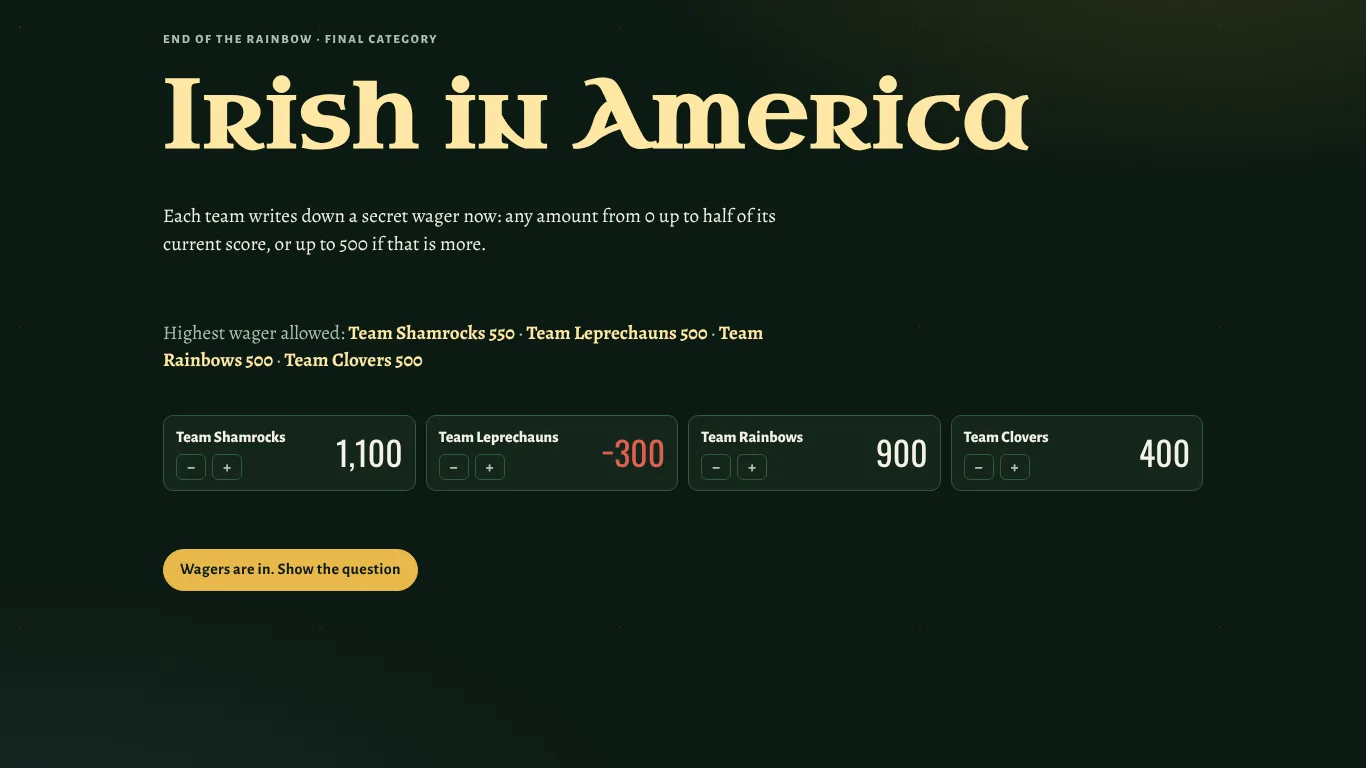
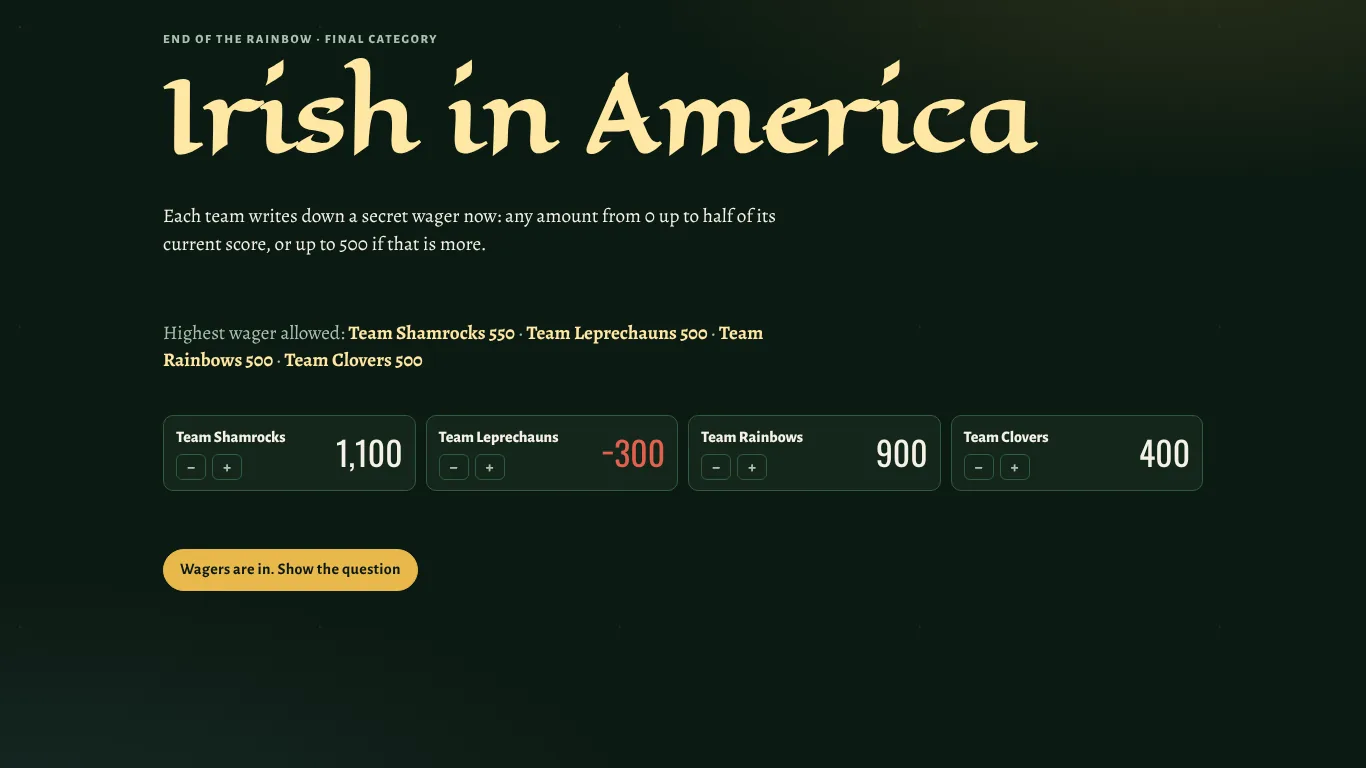
Pot o' Gold: Eagle Lake instead of Uncial Antiqua (its t looked like c: "Viccoria")
Screenshots and preview images redone; narrator lines unchanged.

Claude-Session: https://claude.ai/code/session_01CzHCKpeVAjDiPkzXjuz7VX

Changed region(s): [[0.123, 0.0625, 0.7687, 0.2188]]

diff --git a/games/stpatricks/game.html b/games/stpatricks/game.html
@@ -2,7 +2,7 @@
 <meta name="claude:viewport-fit-sides" content="cover">
 <link rel="preconnect" href="https://fonts.googleapis.com">
 <link rel="preconnect" href="https://fonts.gstatic.com" crossorigin>
-<link rel="stylesheet" href="https://fonts.googleapis.com/css2?family=Alegreya:ital,wght@0,400;0,500;0,700;1,400&family=Alegreya+Sans:wght@400;500;700;800&family=Oswald:wght@400;500;600&family=Uncial+Antiqua&display=swap">
+<link rel="stylesheet" href="https://fonts.googleapis.com/css2?family=Alegreya:ital,wght@0,400;0,500;0,700;1,400&family=Alegreya+Sans:wght@400;500;700;800&family=Oswald:wght@400;500;600&family=Eagle+Lake&display=swap">
 <style>
 /* Layout: one cosy game table in the pub corner — scoreboard strip on top, 5×5 board of "cards" below, questions open as a full-screen overlay for the projector. Single dark theme by design (a green St. Patrick's night). */
 :root{
@@ -19,7 +19,7 @@
   --good:#5fbf73;
   --bad:#e2604f;
   --witch:#7fb8e8;
-  --f-display:"Uncial Antiqua","Georgia","Times New Roman",serif;
+  --f-display:"Eagle Lake","Georgia","Times New Roman",serif;
   --f-text:"Alegreya",Georgia,"Times New Roman",serif;
   --f-ui:"Alegreya Sans",system-ui,-apple-system,"Segoe UI",sans-serif;
   --f-num:"Oswald","Arial Narrow","Helvetica Neue",sans-serif;

diff --git a/tools/make_og.py b/tools/make_og.py
@@ -13,7 +13,7 @@ OUT = f"{S}/build/seo"
 F = f"{S}/fontpkgs"
 font = lambda slug, w, st: os.path.abspath(glob.glob(f"{F}/fontsource-{slug}-[0-9]*/package/files/{slug}-latin-{w}-{st}.woff2")[0])
 FACES = "".join(f"@font-face{{font-family:'{fam}';font-style:{st};font-weight:{w};src:url(file://{font(slug, w, st)})}}"
-                for fam, slug, w, st in [("Mountains of Christmas", "mountains-of-christmas", 700, "normal"), ("Pirata One", "pirata-one", 400, "normal"), ("Yeseva One", "yeseva-one", 400, "normal"), ("Uncial Antiqua", "uncial-antiqua", 400, "normal"),
+                for fam, slug, w, st in [("Mountains of Christmas", "mountains-of-christmas", 700, "normal"), ("Pirata One", "pirata-one", 400, "normal"), ("Yeseva One", "yeseva-one", 400, "normal"), ("Eagle Lake", "eagle-lake", 400, "normal"),
                                          ("Alegreya", "alegreya", 500, "italic"), ("Alegreya", "alegreya", 800, "normal"), ("Alegreya", "alegreya", 800, "italic"),
                                          ("Alegreya Sans", "alegreya-sans", 500, "normal"), ("Alegreya Sans", "alegreya-sans", 800, "normal")])
 SNOW = "".join(f'<i style="left:{(i * 137) % 1200}px;top:{(i * 89) % 630}px;width:{2 + i % 4}px;height:{2 + i % 4}px;opacity:{0.15 + (i % 5) / 12:.2f}"></i>'
@@ -59,7 +59,7 @@ h1{{font-family:'{fam}';font-weight:{w};font-size:{136 if w == 700 else 150}px;l
     for slug, (eyebrow, title, sub) in page_ogs:
         page = f"""<!doctype html><html><head><meta charset="utf-8"><style>{css}
 .t{{position:absolute;left:84px;top:84px;width:740px}}
-h1{{font-family:'{fam}';font-weight:{w};font-size:{int((104 if w == 700 else 112) * (0.74 if fam == 'Uncial Antiqua' else 1))}px;line-height:.93;margin:22px 0 0;color:{th['ember']};text-shadow:0 0 40px rgba({rgb['glow']},.45)}}
+h1{{font-family:'{fam}';font-weight:{w};font-size:{int((104 if w == 700 else 112) * (0.7 if fam == 'Eagle Lake' else 1))}px;line-height:.93;margin:22px 0 0;color:{th['ember']};text-shadow:0 0 40px rgba({rgb['glow']},.45)}}
 .sub{{margin-top:26px;font-size:30px;font-weight:500}}
 .art{{right:80px;top:150px;width:290px}}
 </style></head><body><div class="snow">{SNOW}</div><div class="frame"></div>

diff --git a/tools/fontify.py b/tools/fontify.py
@@ -4,7 +4,7 @@ S = os.path.abspath(".")
 src, out = sys.argv[1], sys.argv[2]
 h = open(src, encoding="utf-8").read()
 F = f"{S}/fontpkgs"
-faces = [("Pirata One","pirata-one",[(400,"normal")]),("Mountains of Christmas","mountains-of-christmas",[(700,"normal")]),("Yeseva One","yeseva-one",[(400,"normal")]),("Uncial Antiqua","uncial-antiqua",[(400,"normal")]),("Alegreya","alegreya",[(400,"normal"),(500,"normal"),(700,"normal"),(400,"italic"),(500,"italic"),(700,"italic")]),
+faces = [("Pirata One","pirata-one",[(400,"normal")]),("Mountains of Christmas","mountains-of-christmas",[(700,"normal")]),("Yeseva One","yeseva-one",[(400,"normal")]),("Eagle Lake","eagle-lake",[(400,"normal")]),("Alegreya","alegreya",[(400,"normal"),(500,"normal"),(700,"normal"),(400,"italic"),(500,"italic"),(700,"italic")]),
 ("Alegreya Sans","alegreya-sans",[(400,"normal"),(500,"normal"),(700,"normal"),(800,"normal")]),("Oswald","oswald",[(400,"normal"),(500,"normal"),(600,"normal")])]
 css = "".join(f"@font-face{{font-family:'{fam}';font-style:{st};font-weight:{w};src:url(file://{glob.glob(f'{F}/fontsource-{slug}-[0-9]*/package/files/{slug}-latin-{w}-{st}.woff2')[0]})}}" for fam,slug,ss in faces for w,st in ss)
 s = h.index('<link rel="preconnect" href="https://fonts.googleapis.com">'); e = h.index('display=swap">', s) + len('display=swap">')

diff --git a/tools/games.py b/tools/games.py
@@ -107,8 +107,8 @@ STPATRICKS = dict(
     theme=dict(night="#0c1a12", dusk="#13261b", cell="#1a3324", line="#2f5a3e", bone="#f4f1e4", ash="#a9c2ae",
                candle="#e8b84a", ember="#ffe7a3", good="#5fbf73", witch="#7fb8e8", bad="#e2604f"),
     rgb=dict(night="12,26,18", dusk="19,38,27", glow="232,184,74", glow2="95,191,115"), tag2="var(--witch)",
-    display=("Uncial Antiqua", 400, "uncial-antiqua", '"Uncial Antiqua",Georgia,"Times New Roman",serif'),
-    gfont="Uncial+Antiqua",
+    display=("Eagle Lake", 400, "eagle-lake", '"Eagle Lake",Georgia,"Times New Roman",serif'),
+    gfont="Eagle+Lake",
     title="Victoria’s Pot o’ Gold · St. Patrick’s Day Office Quiz Game",
     desc="Free St. Patrick’s Day trivia game for office parties and team events: a game-show board, a leprechaun’s trick, a rainbow and a pot-of-gold wager.",
     og_desc="A free St. Patrick’s Day quiz for the whole office: Irish trivia, a leprechaun’s trick, a rainbow and a pot-of-gold wager, with a narrator.",

diff --git a/games/stpatricks/theme.py b/games/stpatricks/theme.py
@@ -6,7 +6,7 @@ MOBILE_CSS is the phone layout from tools/site_common.py."""
 
 VALUES = {
     'page_title': '<title>Victoria’s Pot o’ Gold</title>',
-    'font_link': '&family=Uncial+Antiqua&display=swap',
+    'font_link': '&family=Eagle+Lake&display=swap',
     'css_comment_theme': "Single dark theme by design (a green St. Patrick's night).",
     'css_comment_table': 'one cosy game table in the pub corner',
     'color_night': '--night:#0c1a12',
@@ -21,7 +21,7 @@ VALUES = {
     'color_good': '--good:#5fbf73',
     'color_bad': '--bad:#e2604f',
     'color_witch': '--witch:#7fb8e8',
-    'display_font': '--f-display:"Uncial Antiqua","Georgia","Times New Roman",serif;',
+    'display_font': '--f-display:"Eagle Lake","Georgia","Times New Roman",serif;',
     'atmosphere_css': '''
 /* ---------- Gold dust: two slow layers of golden and green specks drifting up behind the game ---------- */
 body::before,body::after{content:"";position:fixed;inset:-20vh 0 0;pointer-events:none;z-index:0;

diff --git a/HANDOFF.md b/HANDOFF.md
@@ -108,7 +108,7 @@ Decisions she made: name **Victoria's Sweetheart Showdown** (spelled "Victoria" 
 Decisions she made: name **Victoria's Pot o' Gold**; surprise 1 **Leprechaun's Trick** (`"cat"`: the leprechaun snatches the question, the team gives it away); surprise 2 **Over the Rainbow** (`"witch"`: the rainbow appears twice, price then team); final **End of the Rainbow**; winner line "Team X found the pot of gold!"; Round Two slide "Double the luck". Audience: whole world, US first, US spelling. On the site from **February 10, 2027** (`launch` in `tools/games.py`).
 
 - Files: `games/stpatricks/` (theme.py, questions.js, art.js, game.html, voice-lines.json, voice-design-prompts.md, shots/); site pages `tools/pages_stpatricks.py`. Storage keys `pg-state-v1`, `pg-questions-v1`, `pg-voice-v1`. Teams: Shamrocks, Leprechauns, Rainbows, Clovers. Narrator name "Lucky Liam".
-- Look: emerald night `#0c1a12`, gold `#e8b84a`, green `#5fbf73`, sky blue `#7fb8e8` for the rainbow; display font **Uncial Antiqua** (fontsource `uncial-antiqua`, added to fontify.py and make_og.py); gold and green specks drifting up; a lilting tune with soft bodhrán taps in the final. Art: shamrock, leprechaun hat, rainbow with clouds, pot of gold, four-leaf clover, coin.
+- Look: emerald night `#0c1a12`, gold `#e8b84a`, green `#5fbf73`, sky blue `#7fb8e8` for the rainbow; display font **Eagle Lake** (fontsource `eagle-lake`; Uncial Antiqua was dropped on Nov 4 because its lowercase t looks like c, so "Victoria" read as "Viccoria"); gold and green specks drifting up; a lilting tune with soft bodhrán taps in the final. Art: shamrock, leprechaun hat, rainbow with clouds, pot of gold, four-leaf clover, coin.
 - Questions: 50 + final "Irish in America" (John Barry) + tiebreaker (Ireland joined the EEC in 1973); checked from memory, worth a second look before launch. Categories R1: The Emerald Isle, Luck & Legends, Myths of Ireland, Going Green, Around the World; R2: The Real St. Patrick, Irish Words, Famous Irish, Music & Dance, A Taste of Ireland.
 - Checks: game test (`tools/e2e_game.js`) passes; preview site 58 URLs OK; home page now shows the game cards 2 × 2.
 - Voice made on Nov 4: ID `t6vJ4FT1TpF4LOWRQV9n` (prompts in `games/stpatricks/voice-design-prompts.md`). Kit with it as default: `games/stpatricks/voice-kit/` (sent as PotOGold-voice.zip). **Audio done (Nov 4):** 136/136 lines (voice name in ElevenLabs "Patrick", eleven_v4) checked and committed to `audio/stpatricks/`.
